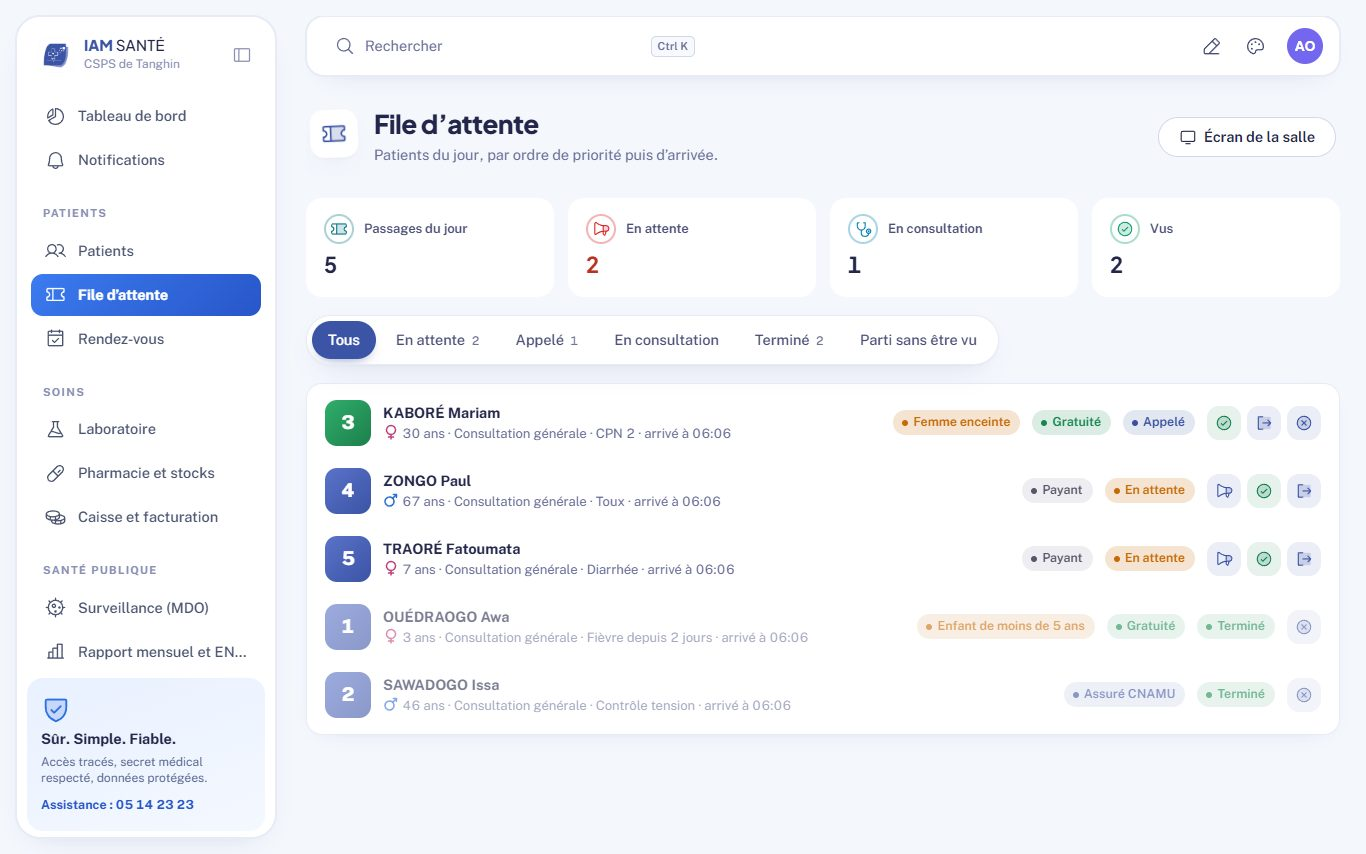
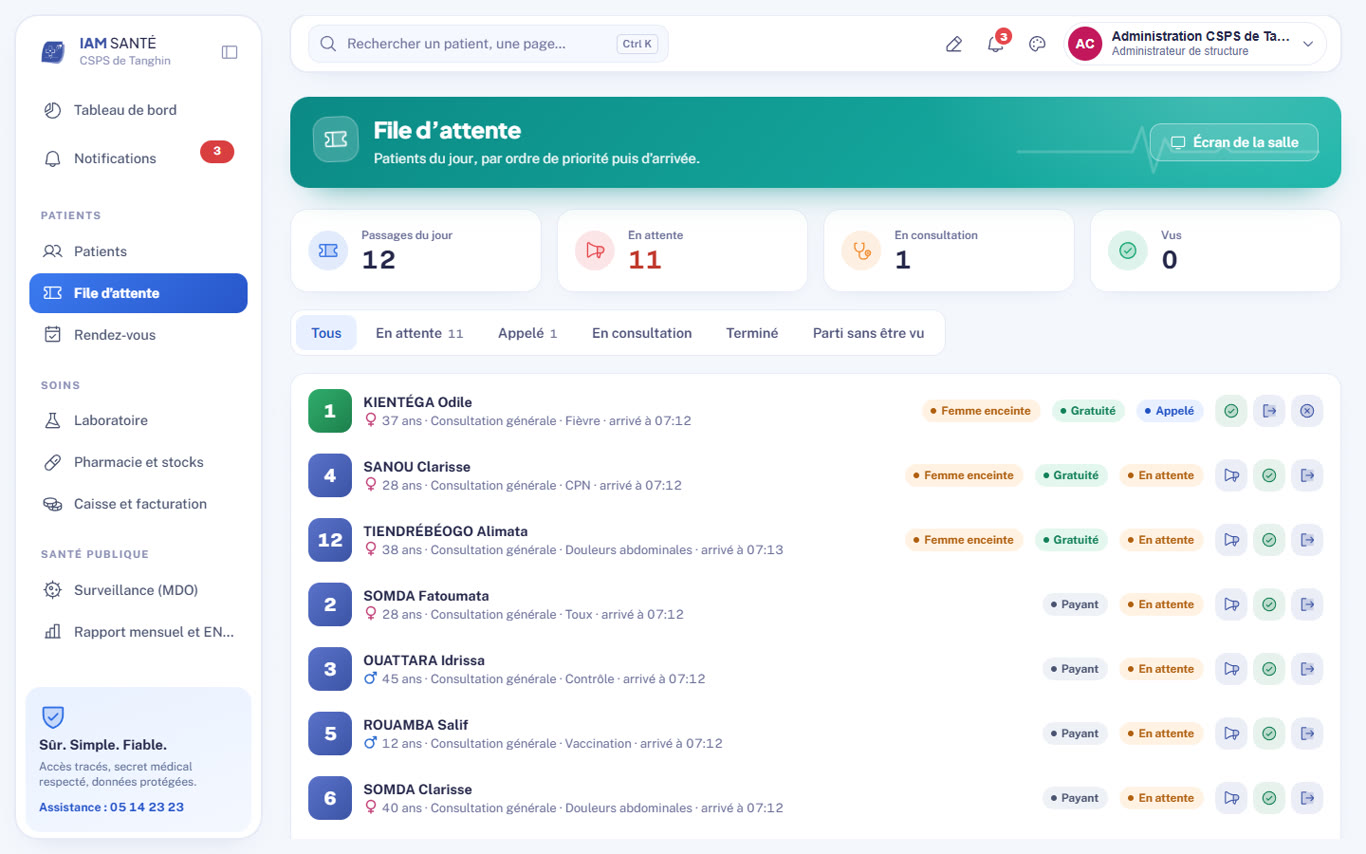
Site IAM SANTÉ 0.2.0 : pilotage national, nouvelles captures

diff --git a/site-sante/body.html b/site-sante/body.html
@@ -4,6 +4,7 @@
     <nav class="menu" id="menu" aria-label="Sections">
       <a href="#fonctions">Fonctions</a>
       <a href="#parcours">Parcours patient</a>
+      <a href="#pilotage">Pilotage national</a>
       <a href="#securite">Sécurité</a>
       <a href="#apercu">Aperçu</a>
       <a href="#faq">Questions</a>
@@ -90,7 +91,28 @@
     {{TEAR_BOTTOM}}
   </section>
 
-  <section id="securite">
+
+  <section id="pilotage">
+    <div class="wrap">
+      <div class="head center rv">
+        <h2>Du CSPS au ministère, <span class="script">chacun son tableau de bord</span></h2>
+        <p>Les données saisies dans les formations sanitaires remontent, sans aucune ressaisie et sans nom de patient, vers les districts, les régions et les directions centrales.</p>
+      </div>
+      <div class="steps">
+        <div class="step rv"><div class="step-top"><span class="step-n">1</span><span class="step-ic"><i data-icon="Virus" data-size="26"></i></span></div><h3>DPSP — surveillance (SIMR)</h3><p>Courbes épidémiques par semaine, seuils d’alerte et épidémiques calculés par district (méningite, rougeole, choléra, dengue…), listes de cas pseudonymisées.</p></div>
+        <div class="step rv" style="--d:1"><div class="step-top"><span class="step-n">2</span><span class="step-ic"><i data-icon="Siren" data-size="26"></i></span></div><h3>CORUS — riposte</h3><p>Événements de santé publique du signal à la clôture : vérification, investigation, riposte, journal horodaté et indicateurs 7-1-7.</p></div>
+        <div class="step rv" style="--d:2"><div class="step-top"><span class="step-n">3</span><span class="step-ic"><i data-icon="ChartLineUp" data-size="26"></i></span></div><h3>DGESS — SNIS</h3><p>Complétude et promptitude des rapports mensuels par district et par région, rapports manquants, export ENDOS.</p></div>
+      </div>
+      <div class="steps" style="margin-top:22px">
+        <div class="step rv"><div class="step-top"><span class="step-n">4</span><span class="step-ic"><i data-icon="Drop" data-size="26"></i></span></div><h3>PNLP, DSF, DPV</h3><p>Paludisme (cas, tests, positivité, CTA), santé de la famille (CPN, accouchements, malnutrition), vaccination (séances, rendez-vous manqués).</p></div>
+        <div class="step rv" style="--d:1"><div class="step-top"><span class="step-n">5</span><span class="step-ic"><i data-icon="Package" data-size="26"></i></span></div><h3>DGAP et DGOS</h3><p>Disponibilité des médicaments traceurs structure par structure ; activité, personnel et contacts par habitant de chaque formation sanitaire.</p></div>
+        <div class="step rv" style="--d:2"><div class="step-top"><span class="step-n">6</span><span class="step-ic"><i data-icon="MapTrifold" data-size="26"></i></span></div><h3>DGSP, DRS, districts</h3><p>Vue d’ensemble nationale ou limitée à la région et au district, sur le découpage territorial de 2025 ; pyramide sanitaire et validation des structures.</p></div>
+      </div>
+    </div>
+  </section>
+
+  <section id="securite" class="paper">
+    {{TEAR_TOP}}
     <div class="wrap">
       <div class="head center rv">
         <h2>Le secret médical <span class="script">protégé</span></h2>
@@ -99,26 +121,29 @@
       <div class="steps">
         <div class="step rv"><div class="step-top"><span class="step-n">1</span><span class="step-ic"><i data-icon="LockKey" data-size="26"></i></span></div><h3>Accès avec l’accord du patient</h3><p>Un dossier suivi ailleurs ne s’ouvre qu’avec le patient présent (carte NNIS), un code SMS qu’il communique, ou l’accès d’urgence motivé, valable 24 h et revu par l’auditeur.</p></div>
         <div class="step rv" style="--d:1"><div class="step-top"><span class="step-n">2</span><span class="step-ic"><i data-icon="ListMagnifyingGlass" data-size="26"></i></span></div><h3>Journal d’audit inaltérable</h3><p>Chaque lecture et chaque modification est enregistrée dans un journal chaîné par empreintes : toute altération est détectée. Le patient peut savoir qui a consulté son dossier.</p></div>
-        <div class="step rv" style="--d:2"><div class="step-top"><span class="step-n">3</span><span class="step-ic"><i data-icon="ShieldCheck" data-size="26"></i></span></div><h3>Rôles et confidentialité</h3><p>21 rôles du cahier des charges et une matrice des droits par structure ; VIH et santé mentale réservés aux soignants habilités ; double authentification obligatoire pour le pilotage ; verrouillage après 10 minutes.</p></div>
+        <div class="step rv" style="--d:2"><div class="step-top"><span class="step-n">3</span><span class="step-ic"><i data-icon="ShieldCheck" data-size="26"></i></span></div><h3>Rôles et confidentialité</h3><p>32 profils, des soignants aux directions centrales, et une matrice des droits par structure ; VIH et santé mentale réservés aux soignants habilités ; double authentification obligatoire pour les profils nationaux ; verrouillage après 10 minutes.</p></div>
       </div>
     </div>
+    {{TEAR_BOTTOM}}
   </section>
 
-  <section id="apercu" class="paper">
-    {{TEAR_TOP}}
+  <section id="apercu">
     <div class="wrap">
       <div class="head center rv">
         <h2>Aperçu de <span class="script">l'application</span></h2>
         <p>Les vrais écrans d'IAM SANTÉ, avec une structure d'exemple.</p>
       </div>
       <div class="shots">
-        <figure class="rv"><img src="assets/captures/tableau-de-bord.jpg" alt="Tableau de bord d'un CSPS" loading="lazy" width="1366" height="854"><figcaption><b>Tableau de bord</b>Passages, attente, examens, ruptures</figcaption></figure>
-        <figure class="rv" style="--d:1"><img src="assets/captures/consultation.jpg" alt="Consultation avec constantes et alerte" loading="lazy" width="1366" height="854"><figcaption><b>Consultation</b>Constantes, alertes, CIM-10</figcaption></figure>
-        <figure class="rv" style="--d:2"><img src="assets/captures/laboratoire.jpg" alt="Demande d'examens au laboratoire" loading="lazy" width="1366" height="854"><figcaption><b>Laboratoire</b>Fiches de prélèvement, résultats</figcaption></figure>
+        <figure class="rv"><img src="assets/captures/tableau-de-bord.jpg" alt="Tableau de bord d'un CSPS" loading="lazy" width="1366" height="854"><figcaption><b>Tableau de bord</b>Tendances, agenda, services</figcaption></figure>
+        <figure class="rv" style="--d:1"><img src="assets/captures/surveillance.jpg" alt="Surveillance épidémiologique de la DPSP" loading="lazy" width="1366" height="854"><figcaption><b>Surveillance (DPSP)</b>Seuils d’alerte par district</figcaption></figure>
+        <figure class="rv" style="--d:2"><img src="assets/captures/evenements.jpg" alt="Événements de santé publique du CORUS" loading="lazy" width="1366" height="854"><figcaption><b>Riposte (CORUS)</b>Événements et 7-1-7</figcaption></figure>
         <figure class="rv" style="--d:3"><img src="assets/captures/file-attente.jpg" alt="File d'attente du jour" loading="lazy" width="1366" height="854"><figcaption><b>File d’attente</b>Priorités, tickets, appel</figcaption></figure>
+        <figure class="rv"><img src="assets/captures/pilotage.jpg" alt="Pilotage national" loading="lazy" width="1366" height="854"><figcaption><b>Pilotage national</b>Régions, alertes, traceurs</figcaption></figure>
+        <figure class="rv" style="--d:1"><img src="assets/captures/paludisme.jpg" alt="Programme de lutte contre le paludisme" loading="lazy" width="1366" height="854"><figcaption><b>Paludisme (PNLP)</b>Cas, tests, positivité</figcaption></figure>
+        <figure class="rv" style="--d:2"><img src="assets/captures/consultation.jpg" alt="Consultation avec constantes et alerte" loading="lazy" width="1366" height="854"><figcaption><b>Consultation</b>Constantes, alertes, CIM-10</figcaption></figure>
+        <figure class="rv" style="--d:3"><img src="assets/captures/laboratoire.jpg" alt="Demande d'examens au laboratoire" loading="lazy" width="1366" height="854"><figcaption><b>Laboratoire</b>Fiches de prélèvement, résultats</figcaption></figure>
       </div>
     </div>
-    {{TEAR_BOTTOM}}
   </section>
 
   <section id="faq">
@@ -132,6 +157,7 @@
         <details class="rv"><summary>Un patient soigné dans un autre CSPS est-il retrouvé ?</summary><p>Oui, grâce à son NNIS : la carte suffit, le patient présent confirme son année de naissance et son dossier s’ouvre dans votre structure. Sans la carte, un code envoyé par SMS au patient le permet.</p></details>
         <details class="rv"><summary>Le rapport mensuel est-il compatible avec ENDOS ?</summary><p>Le rapport est calculé depuis les consultations, examens et factures saisis, validé par le responsable, puis exporté au format DHIS2 (dataValueSets). La correspondance des éléments de données se paramètre avec votre district.</p></details>
         <details class="rv"><summary>Comment sont gérées la gratuité et la CNAMU ?</summary><p>La prise en charge est proposée automatiquement (enfants de moins de 5 ans, femmes enceintes, assurés CNAMU aux droits valides) ; la facture répartit la part gratuité, la part CNAMU (taux de la structure) et la part patient, et le bordereau CNAMU s’exporte chaque mois.</p></details>
+        <details class="rv"><summary>Qui voit quoi au niveau national ?</summary><p>Les directions (DGSP, DPSP, DGESS, DGOS, DGAP, DSF, DPV, PNLP), le CORUS, l’INSP, les DRS et les districts voient des chiffres agrégés et des listes de cas pseudonymisées (numéro EPID, âge, sexe, localité), jamais le nom ni le dossier d’un patient. Leurs comptes exigent la double authentification.</p></details>
         <details class="rv"><summary>Comment démarrer dans notre structure ?</summary><p>Appelez-nous : nous créons votre structure, les comptes du personnel et les tarifs, et formons les équipes sur place. Les référentiels nationaux (CIM-10, examens, médicaments essentiels, régions et provinces 2025) sont déjà chargés.</p></details>
       </div>
     </div>
@@ -142,18 +168,18 @@
     <div class="wrap">
       <div class="head center rv">
         <h2>Téléchargez <span class="script">IAM SANTÉ</span></h2>
-        <p>Un seul compte sur tous vos appareils : ordinateur de la structure, tablette ou téléphone, navigateur. Version 0.1.0.</p>
+        <p>Un seul compte sur tous vos appareils : ordinateur de la structure, tablette ou téléphone, navigateur. Version 0.2.0.</p>
       </div>
       <div class="dl-grid">
         <!--DL-->
-        <a class="dl-card rv" href="/telechargements/IAM-SANTE-Setup-0.1.0.exe"><i data-icon="WindowsLogo" data-size="40" data-weight="fill"></i><b>Windows</b><small>Windows 10 et 11</small><span class="btn btn-cta sm">Télécharger</span></a>
-        <a class="dl-card rv" style="--d:1" href="/telechargements/IAM-SANTE-0.1.0-arm64.dmg"><i data-icon="AppleLogo" data-size="40" data-weight="fill"></i><b>Mac</b><small>Puces Apple M1 à M4</small><span class="btn btn-cta sm">Télécharger</span></a>
-        <a class="dl-card rv" style="--d:2" href="/telechargements/IAM-SANTE-0.1.0-android.apk"><i data-icon="AndroidLogo" data-size="40" data-weight="fill"></i><b>Android</b><small>Android 7 et plus · APK</small><span class="btn btn-cta sm">Télécharger</span></a>
-        <a class="dl-card rv" style="--d:3" href="/telechargements/IAM-SANTE-0.1.0-ios-unsigned.ipa"><i data-icon="DeviceMobile" data-size="40" data-weight="fill"></i><b>iPhone</b><small>À installer avec Sideloadly ou AltStore</small><span class="btn btn-cta sm">Télécharger</span></a>
+        <a class="dl-card rv" href="/telechargements/IAM-SANTE-Setup-0.2.0.exe"><i data-icon="WindowsLogo" data-size="40" data-weight="fill"></i><b>Windows</b><small>Windows 10 et 11</small><span class="btn btn-cta sm">Télécharger</span></a>
+        <a class="dl-card rv" style="--d:1" href="/telechargements/IAM-SANTE-0.2.0-arm64.dmg"><i data-icon="AppleLogo" data-size="40" data-weight="fill"></i><b>Mac</b><small>Puces Apple M1 à M4</small><span class="btn btn-cta sm">Télécharger</span></a>
+        <a class="dl-card rv" style="--d:2" href="/telechargements/IAM-SANTE-0.2.0-android.apk"><i data-icon="AndroidLogo" data-size="40" data-weight="fill"></i><b>Android</b><small>Android 7 et plus · APK</small><span class="btn btn-cta sm">Télécharger</span></a>
+        <a class="dl-card rv" style="--d:3" href="/telechargements/IAM-SANTE-0.2.0-ios-unsigned.ipa"><i data-icon="DeviceMobile" data-size="40" data-weight="fill"></i><b>iPhone</b><small>À installer avec Sideloadly ou AltStore</small><span class="btn btn-cta sm">Télécharger</span></a>
         <!--/DL-->
         <a class="dl-card rv" style="--d:4" href="/app/"><i data-icon="Globe" data-size="40"></i><b>Navigateur</b><small>Chrome, Edge, Firefox, Safari</small><span class="btn btn-cta sm">Ouvrir</span></a>
       </div>
-      <p class="dl-help rv">Mac à processeur Intel : <a href="/telechargements/IAM-SANTE-0.1.0-x64.dmg">version Intel</a>. Sur Mac, au premier lancement : clic droit sur l'application puis « Ouvrir ». Une mise à jour est signalée dans l'application dès sa sortie. Besoin d'aide ? Appelez-nous au <a href="tel:+22605142323">+226 05 14 23 23</a> (lundi au vendredi 8 h – 18 h, samedi 8 h – 13 h).</p>
+      <p class="dl-help rv">Mac à processeur Intel : <a href="/telechargements/IAM-SANTE-0.2.0-x64.dmg">version Intel</a>. Sur Mac, au premier lancement : clic droit sur l'application puis « Ouvrir ». Une mise à jour est signalée dans l'application dès sa sortie. Besoin d'aide ? Appelez-nous au <a href="tel:+22605142323">+226 05 14 23 23</a> (lundi au vendredi 8 h – 18 h, samedi 8 h – 13 h).</p>
     </div>
     {{TEAR_BOTTOM}}
   </section>
